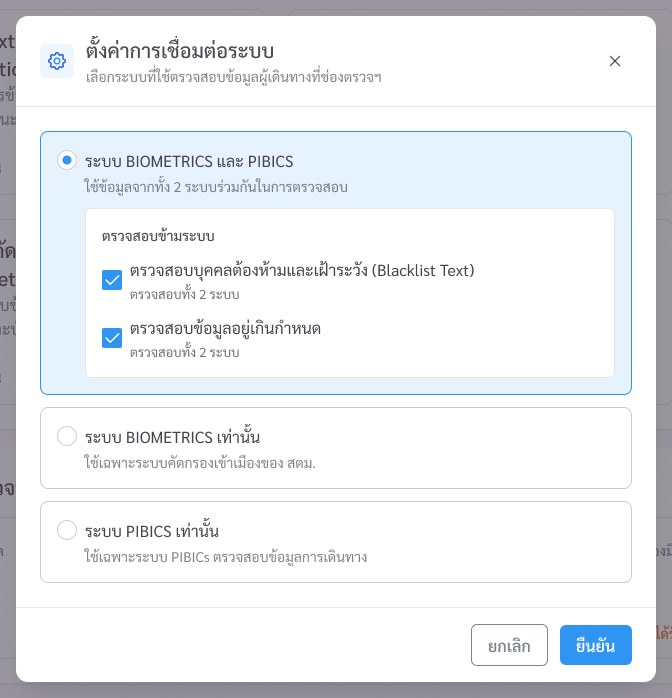
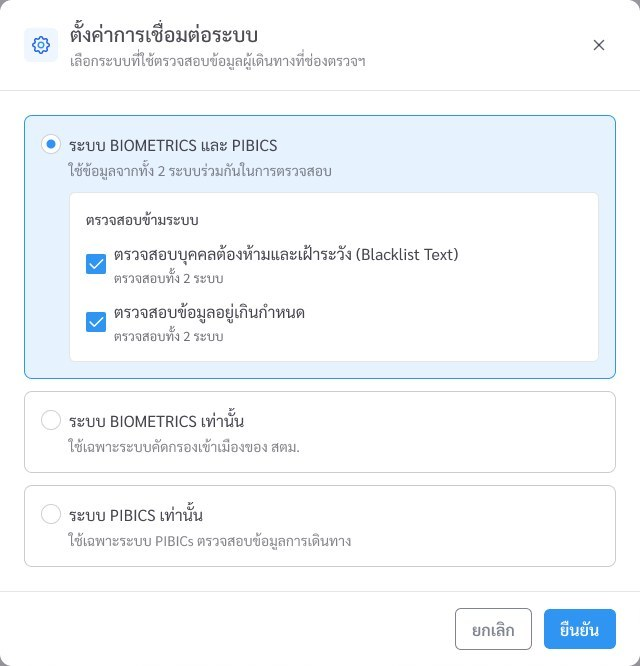
Centralize: retell the case study from the real process
Expert review findings, old sitemap and nine root problems, roles with
user goals and stories, user flows, new sitemap, then revamp screens.
New cover and login from Figma, report before/after now shows the same
report, modals re-cropped.

Claude-Session: https://claude.ai/code/session_01RZ9JP1tTp6cdef2eQ1sVDj

Changed region(s): [[0.0, 0.0, 1.0, 1.0], [0.0625, 0.6006, 0.9375, 0.8408], [0.9062, 0.0601, 0.9375, 0.0901]]

diff --git a/work/centralize.html b/work/centralize.html
@@ -4,7 +4,7 @@
   <meta charset="utf-8">
   <meta name="viewport" content="width=device-width, initial-scale=1">
   <title>Centralize Management — Thanapoom Puchat</title>
-  <meta name="description" content="Case study: redesigning the tool Airports of Thailand staff use to monitor and control the automated passport gates at Suvarnabhumi.">
+  <meta name="description" content="Case study: redesigning the tool Airports of Thailand staff use to monitor and control the automated passport gates.">
   <link rel="preconnect" href="https://fonts.googleapis.com">
   <link rel="preconnect" href="https://fonts.gstatic.com" crossorigin>
   <link href="https://fonts.googleapis.com/css2?family=Inter+Tight:wght@400;500;600;700;800&family=JetBrains+Mono:wght@400;500&display=swap" rel="stylesheet">
@@ -19,63 +19,71 @@
 <section class="hero"><div class="wrap">
   <span class="label hl">Centralize Management</span>
   <h1 class="brand">Centralize<br><span class="gp" tabindex="0"><em class="gp-w">Management<svg class="gp-pl" viewBox="0 0 24 24" aria-hidden="true"><path d="M21 16v-2l-8-5V3.5a1.5 1.5 0 0 0-3 0V9l-8 5v2l8-2.5V19l-2 1.5V22l3.5-1 3.5 1v-1.5L13 19v-5.5z"/></svg></em></span></h1>
-  <p class="tagline">Redesign of the back-office tool Suvarnabhumi Airport staff use to monitor and control automated passport gates.</p>
-  <div class="meta"><div><b>Role</b>Lead UX/UI: review, IA, hi-fi, design system</div><div><b>Client</b>Airports of Thailand (AOT)</div><div><b>Users</b>Immigration and AOT operations staff</div><div><b>Tools</b>Figma, FigJam</div></div>
-  <figure class="shot reveal"><div class="frame" style="--ar:16/9"><img src="../images/centralize/dashboard.png" alt="Redesigned gate monitoring dashboard" loading="lazy"></div></figure>
+  <p class="tagline">Redesign of the back-office tool airport and immigration staff use to monitor and control automated passport gates.</p>
+  <div class="meta"><div><b>Role</b>Lead UX/UI: review, IA, flows, hi-fi, design system</div><div><b>Client</b>Airports of Thailand (AOT)</div><div><b>Users</b>Immigration and AOT operations staff</div><div><b>Tools</b>Figma, FigJam</div></div>
+  <figure class="shot reveal"><div class="frame" style="--ar:16/9"><img src="../images/centralize/cover.jpg" alt="Centralize project cover with Chanwanich and AOT logos" loading="lazy"></div></figure>
 </div></section>
-<section class="slide ie-tldr"><div class="wrap"><div class="ie-tldr-grid reveal"><div><span class="tiny">The problem</span><p>Suvarnabhumi’s automated passport gates are run from one back-office tool. It grew one requirement at a time: menus named after modules, a red outline on almost every gate card, and one-click actions that open a gate or resend a travel record with no review.</p></div><div><span class="tiny">What I did</span><p>Reviewed every module against Nielsen’s heuristics, grouped the findings into nine system-level problems, mapped three role groups to user stories and a new sitemap, then redesigned the core screens on a new design system.</p></div><div><span class="tiny">Where it stands</span><p>Hi-fi for the monitoring flow: dashboard, gate detail, gate actions, reports, certificates and login. The next step is task-based testing with each role group.</p></div></div></div></section><section class="slide side"><div class="wrap">
-  <div><span class="label">01 · Context</span><h2>One screen for eleven gates and the six systems behind them</h2><p class="sub">Every passenger at an automated gate is checked against immigration biometrics, PIBICS, the APPS flight gateway, TDAC and the e-passport chip. If one link fails, the gate fails. Staff watch all of it from this tool, across three zones, arrivals and departures.</p></div>
-  <div><div class="content"><div class="stats reveal" style="--cols:3"><div><b>11</b><span>automated gates across 3 zones</span></div><div><b>6</b><span>external systems each gate depends on</span></div><div><b>3</b><span>role groups with different jobs</span></div></div></div><div class="content"><div class="list two reveal"><div><b>Device faults</b><p>Printer out of paper, passport reader offline, certificate about to expire.</p></div><div><b>Passenger incidents</b><p>Face or fingerprint match fails, someone is stuck between doors, a bag is left behind.</p></div><div><b>Security</b><p>A watch-list match that needs a person at the gate now.</p></div></div></div></div>
-</div></section>
-<section class="slide side"><div class="wrap">
-  <div><span class="label">02 · Existing system</span><h2>Reviewing the live tool, module by module</h2><p class="sub">An expert review of every screen against Nielsen’s 10 heuristics. For each one I logged the issue, the heuristic it broke, what already worked, and a recommendation.</p></div>
-  <div><div class="content"><div class="list two reveal"><div><b>Red borders everywhere<small>Aesthetic · Visibility of status</small></b><p>Real faults looked like normal states, so staff stopped trusting colour. Fix: name, status, the one critical issue, and one action per gate.</p></div><div><b>Open gate and resend record in one click<small>Error prevention</small></b><p>Opening a gate or resending a travel record had no review and no reason. Fix: a confirmation step that shows what will change and logs why.</p></div><div><b>JSON upload help<small>Help and documentation · already good</small></b><p>The upload page explained each step and the common errors. Kept, and reused as the pattern for other uploads.</p></div></div></div><div class="content"><figure class="shot contain reveal"><div class="frame" style="--ar:1400/1587"><img src="../images/centralize/old-control.jpg" alt="Old gate control page" loading="lazy"></div><figcaption>Before · gate control: scope, open/close, timing rules and ten alert toggles on one page, saved with one button.<a href="../images/centralize/old-control.jpg" target="_blank" rel="noopener">Full screen ↗</a></figcaption></figure></div></div>
+<section class="slide ie-tldr"><div class="wrap"><div class="ie-tldr-grid reveal"><div><span class="tiny">The problem</span><p>Airports of Thailand runs its automated passport gates from one back-office tool. Years of additions left it organised by module: ten top-level menus, 24 separate report pages, and a red outline on almost every gate card.</p></div><div><span class="tiny">How I worked</span><p>Expert review of every module, then the old sitemap and nine root problems, then roles, user goals, stories and flows. Only then a new sitemap and the screens.</p></div><div><span class="tiny">Where it stands</span><p>Hi-fi for the dashboard, gate detail, gate actions, reports, certificates, master data and login. Next step: task-based tests with each role group.</p></div></div></div></section><section class="slide"><div class="wrap">
+  <span class="label">01 · Expert review</span>
+  <h2>Start from the live system, not a blank page</h2><p class="sub">I reviewed every module of the existing tool, from login to master data, against Nielsen’s ten heuristics. Each finding was logged with the heuristic it broke or met and a recommendation. The dashboard module, as an example:</p>
+  <div class="content"><div class="stats reveal" style="--cols:4"><div><b>10</b><span>modules reviewed</span></div><div><b>10</b><span>heuristics as the checklist</span></div><div><b>6</b><span>user groups mapped</span></div><div><b>9</b><span>root problems found</span></div></div></div><div class="content"><div class="scroll-x reveal"><table class="metrics cm-tb cm-find"><thead><tr><th>#</th><th>Finding</th><th>Heuristic</th><th>Recommendation</th></tr></thead><tbody><tr><td>01</td><td>Status uses many colours and styles, so staff have to remember what each one means.</td><td><span class="cm-tag bad">Broken</span>6 · Recognition rather than recall</td><td>Colour, icon and label together, with a legend for rare states.</td></tr><tr><td>02</td><td>The connection modal mixes main options and sub-options. It is unclear which checkboxes belong to which radio button.</td><td><span class="cm-tag bad">Broken</span>6 · Recognition rather than recall</td><td>Group it: connection type, then systems, then extra checks, with indentation and helper text.</td></tr><tr><td>03</td><td>Red borders on most gate cards. A critical fault looks the same as a normal state.</td><td><span class="cm-tag bad">Broken</span>8 · Aesthetic and minimalist design</td><td>Red only where a person is needed. Tone down everything else.</td></tr><tr><td>04</td><td>High information density. Staff scan every card to find the one that matters.</td><td><span class="cm-tag bad">Broken</span>8 · Aesthetic and minimalist design</td><td>Per card: gate name, main status, critical issue, one primary action.</td></tr><tr><td>05</td><td>The detail page is split into gate, devices, passenger result, timeline and biometrics.</td><td><span class="cm-tag good">Met</span>6 · Recognition rather than recall</td><td>Keep the sections. Make the headings stronger than the data.</td></tr><tr><td>06</td><td>Dashboard → settings → detail lets staff drill down from the overview.</td><td><span class="cm-tag good">Met</span>7 · Flexibility and efficiency</td><td>Keep the flow. Add a clear way back to the dashboard.</td></tr></tbody></table></div></div><div class="content"><p class="note">Findings that met a heuristic were kept on purpose. Not everything in the old tool was broken.</p></div>
 </div></section>
 <section class="slide"><div class="wrap">
-  <span class="label">03 · Pain points</span>
-  <h2>Dozens of screen issues, nine root causes</h2><p class="sub">Grouped from the review. Most screen-level fixes traced back to one of these, so these became the brief.</p>
-  <div class="content"><div class="cm-th reveal"><div><span class="tiny">Structure</span><h4>The menu mirrors the database</h4><ul><li><b>IA built around modules</b>Related tasks were spread across menus.</li><li><b>System language</b>Menus named after modules and data types, not jobs.</li><li><b>Feature creep</b>Each new requirement added a menu, a modal or a filter.</li></ul></div><div><span class="tiny">Attention</span><h4>Everything looks equally urgent</h4><ul><li><b>No priority</b>KPIs, charts, filters and tables all at the same weight.</li><li><b>Inconsistent UI</b>Badge colours changed meaning between modules.</li><li><b>Read-only vs edit</b>Detail pages looked like forms waiting to be filled in.</li></ul></div><div><span class="tiny">Action</span><h4>Risky steps have no guard rails</h4><ul><li><b>No workflow</b>Scope, on/off, conditions and alerts set on one page.</li><li><b>Filters reset</b>No quick filters or saved views; every visit started over.</li><li><b>Permissions</b>Ticked one by one in long lists, hard to review.</li></ul></div></div></div>
+  <span class="label">02 · Old sitemap</span>
+  <h2>Ten menus named after modules</h2><p class="sub">Next I mapped the existing menu tree and traced each finding back to it. Most screen-level issues came from the same nine causes, so those nine became the brief.</p>
+  <div class="content"><div class="cm-old reveal"><span class="tiny">Existing top-level menu</span><ol><li>Home</li><li>Reports</li><li>Inquiry</li><li>Gate management</li><li>Gate control &amp; alerts</li><li>Certificates</li><li>Users &amp; permissions</li><li>Master data</li><li>Gate software</li><li>Others</li></ol></div></div><div class="content"><div class="scroll-x reveal"><table class="metrics cm-tb cm-pain"><thead><tr><th>Root problem</th><th>What it costs staff</th></tr></thead><tbody><tr><td><b>Menus follow modules, not tasks</b></td><td>Hard to find a function. Long time to learn the system.</td></tr><tr><td><b>No clear workflow</b></td><td>Staff must already know which menu, which button, and where to go next.</td></tr><tr><td><b>Lots of data, no priority</b></td><td>Reading whole tables to find the one thing that matters.</td></tr><tr><td><b>Too many filters and search fields</b></td><td>Searching and checking take longer than the task itself.</td></tr><tr><td><b>Inconsistent UI</b></td><td>The same interaction is relearned in every module.</td></tr><tr><td><b>View and edit look the same</b></td><td>Unsure whether a detail page is read-only or a form.</td></tr><tr><td><b>Permissions ticked one by one</b></td><td>Long lists that are hard to review before saving.</td></tr><tr><td><b>Technical menu names</b></td><td>New staff learn the vocabulary before they can learn the job.</td></tr><tr><td><b>Features keep piling up</b></td><td>Every request added another menu, pattern, modal, filter or master-data list.</td></tr></tbody></table></div></div><div class="content"><div class="ie-ba reveal"><figure class="ie-ba-c"><span class="ie-ba-t t-before">Before</span><div class="frame" style="aspect-ratio:3/2"><img src="../images/centralize/old-report.jpg" alt="Old report page" loading="lazy"></div><figcaption>Reports: 24 separate pages stacked in the sidebar.</figcaption></figure><figure class="ie-ba-c"><span class="ie-ba-t t-before">Before</span><div class="frame" style="aspect-ratio:3/2"><img src="../images/centralize/old-search.jpg" alt="Old traveller search" loading="lazy"></div><figcaption>Inquiry: seventeen filters before a single result.</figcaption></figure></div></div>
 </div></section>
 <section class="slide"><div class="wrap">
-  <span class="label">04 · Roles</span>
-  <h2>Three role groups, one sitemap</h2><p class="sub">I mapped who acts on a gate and who only watches it. Each screen in the new sitemap is tied to a role and a user story, which showed which pages nobody needed and which actions needed a review step.</p>
-  <div class="content"><div class="cards reveal" style="--cols:3"><div class="card"><span class="k">Action</span><h4>Fix the gate</h4><p>Immigration master-data unit. Picks a faulty gate from the dashboard, checks its detail, and brings it back into service.</p></div><div class="card"><span class="k">Action + Monitor</span><h4>Judge, then act</h4><p>Unit heads, operations staff, system admins. Watch the whole airport, open an incident, act, and confirm the result.</p></div><div class="card"><span class="k">Monitor</span><h4>Spot it and pass it on</h4><p>Central immigration. See gate and system status and alerts, and hand problems to the right team in time.</p></div></div></div><div class="content"><figure class="shot contain reveal"><div class="frame" style="--ar:1800/847"><img src="../images/centralize/roles.png" alt="Role goals, objectives and user stories" loading="lazy"></div><figcaption>Goals, objectives and user stories for each role group.<a href="../images/centralize/roles.png" target="_blank" rel="noopener">Full screen ↗</a></figcaption></figure></div><div class="content"><figure class="shot contain reveal"><div class="frame" style="--ar:1800/1186"><img src="../images/centralize/sitemap.png" alt="Role-based sitemap" loading="lazy"></div><figcaption>New sitemap, grouped by job instead of by module.<a href="../images/centralize/sitemap.png" target="_blank" rel="noopener">Full screen ↗</a></figcaption></figure></div>
+  <span class="label">03 · Roles &amp; actions</span>
+  <h2>Who watches, who acts</h2><p class="sub">Not everyone who opens the tool should be able to change a gate. I grouped the six user groups by what they do with it, then wrote each group’s goal and stories before drawing a screen.</p>
+  <div class="content"><div class="cm-per reveal"><div><span class="cm-role mon">Monitor</span><p class="cm-who">Central immigration (AOT + CWN)</p><span class="tiny">User goal</span><p class="cm-goal">See every airport in one place and pass problems to the right team in time.</p><span class="tiny">User stories · “I want to…”</span><ul class="cm-st"><li>See one dashboard across all airports, to know the state of the whole system.</li><li>Receive national alerts, to respond to major incidents straight away.</li><li>Search a person across airports, to check a traveller’s history.</li></ul><span class="tiny">What the design does</span><p class="cm-do">Read-only views, alerts and hand-off. No gate controls.</p></div><div><span class="cm-role both">Monitor + Action</span><p class="cm-who">System admins, supervisors, operation staff, unit heads</p><span class="tiny">User goal</span><p class="cm-goal">Watch their airport or side, open the incident, act, and confirm the result.</p><span class="tiny">User stories · “I want to…”</span><ul class="cm-st"><li>Pick a gate with an incident, to see what happened and deal with it.</li><li>See the passenger’s passport and biometric results, to decide whether to allow or refuse.</li><li>Review past logs, to check the team’s decisions (unit heads).</li></ul><span class="tiny">What the design does</span><p class="cm-do">Controls sit next to the state they change. Risky actions ask for a reason and are logged.</p></div><div><span class="cm-role act">Action</span><p class="cm-who">Immigration master-data unit</p><span class="tiny">User goal</span><p class="cm-goal">Keep nationality, visa and behaviour rules current, so the automated checks follow the latest policy.</p><span class="tiny">User stories · “I want to…”</span><ul class="cm-st"><li>Set visa rules per country, for arrivals.</li><li>Set behaviour rules (visa run, in-out, overstay) per country.</li><li>Log every change with a version.</li></ul><span class="tiny">What the design does</span><p class="cm-do">One master-data template with validation, duplicate-code errors and a guard on deleting data in use.</p></div></div></div>
 </div></section>
-<section class="slide side"><div class="wrap">
-  <div><span class="label">05 · Principles</span><h2>Four rules every screen had to pass</h2><p class="sub">Written from the pain points, then used to review my own screens before handoff.</p></div>
-  <div><div class="content"><div class="list reveal"><div><span class="n">01</span><b>Exceptions first</b><p>The dashboard opens on what is wrong. Healthy gates are one tab away, not in the way.</p></div><div><span class="n">02</span><b>One colour, one meaning</b><p>Red is a fault that needs a person. Orange needs checking. Grey is off. Nowhere else.</p></div><div><span class="n">03</span><b>Look before you act</b><p>Every control sits next to the state it changes, and shows when it last changed.</p></div><div><span class="n">04</span><b>Every override leaves a reason</b><p>Opening a gate or changing a system link asks why, and logs who did it.</p></div></div></div></div>
+<section class="slide"><div class="wrap">
+  <span class="label">04 · User flows</span>
+  <h2>Flows before screens</h2><p class="sub">One flow per group, from login to the moment the job is done. The branch at the end of each flow became the screen that needed the most care.</p>
+  <div class="content"><div class="cm-flows reveal"><div class="cm-fl"><span class="cm-role both">Operation staff</span><ol><li>Log in, pick site</li><li>Gate status for my side</li><li>Open the gate with an incident</li><li>Passport and biometrics</li><li class="cm-end"><span class="ok">Pass: open the door</span><span class="bad">Fail: close, log incident</span></li></ol></div><div class="cm-fl"><span class="cm-role both">Admin / supervisor</span><ol><li>Log in, pick site</li><li>Airport console</li><li>Gate status and alerts</li><li>Open, close or configure</li><li class="cm-end"><span class="">Users and permissions</span><span class="">Special lanes, export</span></li></ol></div><div class="cm-fl"><span class="cm-role mon">Central immigration</span><ol><li>Log in</li><li>All airports overview</li><li>National alerts</li><li>Cross-airport search</li><li class="cm-end"><span class="">Executive summary</span></li></ol></div><div class="cm-fl"><span class="cm-role act">Master data</span><ol><li>Log in</li><li>Nationality list</li><li>Visa rules per country</li><li>Behaviour rules</li><li class="cm-end"><span class="ok">Save with a version</span></li></ol></div><div class="cm-fl"><span class="cm-role pax">Passenger at the gate</span><ol><li>Scan passport</li><li>Face or document check</li><li>e-Visa, allowed country</li><li>Behaviour check</li><li class="cm-end"><span class="ok">Pass</span><span class="bad">Fail: logged for staff</span></li></ol></div></div></div><div class="content"><p class="note">The passenger never uses the tool, but every check in their flow is what staff read on the gate detail page.</p></div>
+</div></section>
+<section class="slide"><div class="wrap">
+  <span class="label">05 · New sitemap</span>
+  <h2>From module menus to jobs</h2><p class="sub">Reports and inquiry became one place to find data. Gates, control, alerts and biometrics became daily operations. Admin settings moved to the end, and search, notifications and help became global.</p>
+  <div class="content"><div class="cm-sm reveal"><div><span class="n">01</span><h4>Home</h4><ul><li><b>System status</b></li><li><b>Gate overview</b></li><li><b>Gates to check</b></li></ul></div><div><span class="n">02</span><h4>Reports &amp; search</h4><ul><li><b>Reports</b><small>KPIs, statistics, charts, tables</small></li><li><b>Data inquiry</b><small>By reference, time, type, status, gate</small></li></ul></div><div><span class="n">03</span><h4>Operations</h4><ul><li><b>Gates</b><small>All gates, gate detail</small></li><li><b>Gate control</b><small>Open/close, conditions</small></li><li><b>Alerts</b><small>Rules, on/off</small></li><li><b>Biometrics</b><small>Send status, resend</small></li></ul></div><div><span class="n">04</span><h4>Certificates</h4><ul><li><b>Overview</b></li><li><b>CSCA</b></li><li><b>CVCA / DVCA</b></li><li><b>Revocation</b></li></ul></div><div><span class="n">05</span><h4>Gate software</h4><ul><li><b>Software status</b></li><li><b>Install / update</b></li><li><b>Packages</b></li></ul></div><div><span class="n">06</span><h4>Users &amp; permissions</h4><ul><li><b>Users</b></li><li><b>Permissions</b><small>Permission matrix</small></li><li><b>Approvals</b><small>Approve or reject</small></li></ul></div><div><span class="n">07</span><h4>System settings</h4><ul><li><b>Master data</b></li><li><b>Configuration</b><small>Mapping, parameters</small></li><li><b>Shared system data</b></li></ul></div><div><span class="n">08</span><h4>Global</h4><ul><li><b>Search, notifications</b></li><li><b>Help, TH / EN</b></li><li><b>Profile, log out</b></li></ul></div></div></div>
 </div></section>
 <section class="slide"><div class="wrap">
   <span class="label">06 · Dashboard</span>
-  <h2>From a wall of red to a list of what needs you</h2><p class="sub">The overview now answers three questions in order: are the connected systems up, how many gates need attention, and which ones.</p>
-  <div class="content"><div class="ie-ba reveal"><figure class="ie-ba-c"><span class="ie-ba-t t-before">Before</span><div class="frame" style="aspect-ratio:1466/1175"><img src="../images/centralize/old-gates.jpg" alt="Old gate overview" loading="lazy"></div><figcaption>Before · every card outlined in red, status as text, no counts or filters.</figcaption></figure><figure class="ie-ba-c"><span class="ie-ba-t t-after">After</span><div class="frame" style="aspect-ratio:1466/1175"><img src="../images/centralize/new-gates.jpg" alt="New gate overview" loading="lazy"></div><figcaption>After · status counts, a “needs attention” tab with filters, and one issue per card.</figcaption></figure></div></div><div class="content"><div class="list two reveal"><div><b>Status counts on top</b><p>Total, open, device fault, needs checking, offline. Each count is a filter.</p></div><div><b>Tabs with numbers</b><p>All 11 · Normal 4 · Abnormal 5 · Closed 2. Staff start on Abnormal.</p></div><div><b>One issue per card</b><p>Gate, zone, door state, the issue and its time. Colour sits on a thin bottom bar, not the whole border.</p></div><div><b>Device strip</b><p>Seven device icons per gate, each with its own status dot, so a fault is visible without opening the gate.</p></div></div></div><div class="content"><figure class="shot reveal"><div class="frame" style="--ar:1248/520"><img src="../images/centralize/new-systems.jpg" alt="Connected systems panel" loading="lazy"></div><figcaption>Above the gates: the six connected systems, with “6/6 ready” at a glance and a settings entry for admins.<a href="../images/centralize/new-systems.jpg" target="_blank" rel="noopener">Full screen ↗</a></figcaption></figure></div>
+  <h2>From a wall of red to a list of what needs you</h2><p class="sub">Findings 03 and 04 in practice. The overview now answers three questions in order: are the connected systems up, how many gates need attention, and which ones.</p>
+  <div class="content"><div class="ie-ba reveal"><figure class="ie-ba-c"><span class="ie-ba-t t-before">Before</span><div class="frame" style="aspect-ratio:1466/1175"><img src="../images/centralize/old-gates.jpg" alt="Old gate overview" loading="lazy"></div><figcaption>Before · every card outlined in red, status as text, no counts or filters.</figcaption></figure><figure class="ie-ba-c"><span class="ie-ba-t t-after">After</span><div class="frame" style="aspect-ratio:1466/1175"><img src="../images/centralize/new-gates.jpg" alt="New gate overview" loading="lazy"></div><figcaption>After · status counts, a “needs attention” tab, one issue per card.</figcaption></figure></div></div><div class="content"><figure class="shot reveal"><div class="frame" style="--ar:1248/520"><img src="../images/centralize/new-systems.jpg" alt="Connected systems panel" loading="lazy"></div><figcaption>Above the gates: the six connected systems, “6/6 ready” at a glance.<a href="../images/centralize/new-systems.jpg" target="_blank" rel="noopener">Full screen ↗</a></figcaption></figure></div>
 </div></section>
 <section class="slide"><div class="wrap">
   <span class="label">07 · Gate detail</span>
-  <h2>One verdict before twenty fields</h2><p class="sub">Staff open a gate to answer one question: why did this passenger fail, and what do I do? The old page made them read every row to find out.</p>
-  <div class="content"><div class="ie-ba stack reveal"><figure class="ie-ba-c"><span class="ie-ba-t t-before">Before</span><div class="frame"><img src="../images/centralize/old-lane.jpg" alt="Old gate detail" loading="lazy"></div><figcaption>Before · every check shown at the same weight, open/close as two button pairs per control.</figcaption></figure><figure class="ie-ba-c"><span class="ie-ba-t t-after">After</span><div class="frame"><img src="../images/centralize/new-lane.jpg" alt="New gate detail" loading="lazy"></div><figcaption>After · an overall result first (“Failed 2 of 4”), with the four checks as chips. <a href="../images/centralize/lane.jpg" target="_blank" rel="noopener">Full screen ↗</a></figcaption></figure></div></div><div class="content"><div class="list two reveal"><div><b>Verdict banner</b><p>Overall result, how many checks failed, and what to do next, above everything else.</p></div><div><b>Scores with thresholds</b><p>Face and fingerprint scores on a meter with the pass line marked, instead of a bare number.</p></div><div><b>Switches with history</b><p>Service and door switches show when they last changed, so staff can see if someone already acted.</p></div><div><b>Previous / next gate</b><p>Move through the faulty gates without going back to the dashboard.</p></div></div></div>
+  <h2>One verdict before twenty fields</h2><p class="sub">Staff open a gate to answer one question: why did this passenger fail, and what do I do now? The result of the passenger flow now comes first.</p>
+  <div class="content"><div class="ie-ba stack reveal"><figure class="ie-ba-c"><span class="ie-ba-t t-before">Before</span><div class="frame"><img src="../images/centralize/old-lane.jpg" alt="Old gate detail" loading="lazy"></div><figcaption>Before · every check at the same weight, open/close as button pairs.</figcaption></figure><figure class="ie-ba-c"><span class="ie-ba-t t-after">After</span><div class="frame"><img src="../images/centralize/new-lane.jpg" alt="New gate detail" loading="lazy"></div><figcaption>After · an overall result first (“Failed 2 of 4”), the checks as chips, and switches that show when they last changed. <a href="../images/centralize/lane.jpg" target="_blank" rel="noopener">Full screen ↗</a></figcaption></figure></div></div>
 </div></section>
 <section class="slide"><div class="wrap">
   <span class="label">08 · Guard rails</span>
-  <h2>Risky actions ask what will change, and why</h2><p class="sub">Opening a gate lets a passenger through without a full check. Changing which systems are used changes every check at the airport. Both now stop for a moment.</p>
-  <div class="content"><div class="duo"><figure class="shot contain reveal"><div class="frame" style="--ar:672/698"><img src="../images/centralize/modal-open.jpg" alt="Open gate confirmation" loading="lazy"></div><figcaption>Open gate: which gate and door, a note that the action is logged with your name, and a required reason.</figcaption></figure><figure class="shot contain reveal"><div class="frame" style="--ar:672/698"><img src="../images/centralize/modal-conn.jpg" alt="Connection settings" loading="lazy"></div><figcaption>System connection: three clear options instead of loose checkboxes, with the sub-checks shown inside the chosen one.</figcaption></figure></div></div>
+  <h2>Risky actions ask what will change, and why</h2><p class="sub">Opening a gate lets a passenger through without a full check. Changing the connected systems changes every check at the airport. Both now stop for a moment. The second also fixes finding 02.</p>
+  <div class="content"><div class="duo"><figure class="shot contain reveal"><div class="frame" style="--ar:734/867"><img src="../images/centralize/modal-open.jpg" alt="Open gate confirmation" loading="lazy"></div><figcaption>Open gate: which gate and door, a note that it is logged with your name, and a required reason.</figcaption></figure><figure class="shot contain reveal"><div class="frame" style="--ar:734/867"><img src="../images/centralize/modal-conn.jpg" alt="Connection settings" loading="lazy"></div><figcaption>Connections: three clear options, with the sub-checks inside the chosen one.</figcaption></figure></div></div>
 </div></section>
 <section class="slide"><div class="wrap">
-  <span class="label">09 · Reports & certificates</span>
-  <h2>Find the report, read the status</h2><p class="sub">Two modules that had grown by addition: 24 report links stacked in the sidebar, and certificate files listed by file name.</p>
-  <div class="content"><div class="ie-ba reveal"><figure class="ie-ba-c"><span class="ie-ba-t t-before">Before</span><div class="frame" style="aspect-ratio:4/5"><img src="../images/centralize/old-report.jpg" alt="Old report page" loading="lazy"></div><figcaption>Before · 24 report links in the sidebar, each a separate page.</figcaption></figure><figure class="ie-ba-c"><span class="ie-ba-t t-after">After</span><div class="frame" style="aspect-ratio:4/5"><img src="../images/centralize/new-report.jpg" alt="New report hub" loading="lazy"></div><figcaption>After · 23 reports in five groups, with search, pinned and recently used.</figcaption></figure></div></div><div class="content"><div class="ie-ba reveal"><figure class="ie-ba-c"><span class="ie-ba-t t-before">Before</span><div class="frame" style="aspect-ratio:1515/1122"><img src="../images/centralize/old-cert.jpg" alt="Old certificate list" loading="lazy"></div><figcaption>Before · CSCA certificates as .ldif file names and versions.</figcaption></figure><figure class="ie-ba-c"><span class="ie-ba-t t-after">After</span><div class="frame" style="aspect-ratio:1515/1122"><img src="../images/centralize/new-cert.jpg" alt="New certificate list" loading="lazy"></div><figcaption>After · by country, with valid-from, expiry and a status badge.</figcaption></figure></div></div>
+  <span class="label">09 · Reports &amp; data</span>
+  <h2>Templates instead of one-off pages</h2><p class="sub">The 24 report pages and the master-data lists were rebuilt on a few shared templates. The same report, before and after:</p>
+  <div class="content"><div class="ie-ba reveal"><figure class="ie-ba-c"><span class="ie-ba-t t-before">Before</span><div class="frame" style="aspect-ratio:924/1155"><img src="../images/centralize/old-report.jpg" alt="Old departure gate usage report" loading="lazy"></div><figcaption>Before · departure gate usage: zone cards full of zeros, filters hidden behind a button.</figcaption></figure><figure class="ie-ba-c"><span class="ie-ba-t t-after">After</span><div class="frame" style="aspect-ratio:924/1155"><img src="../images/centralize/report-a.jpg" alt="New departure gate usage report" loading="lazy"></div><figcaption>After · the same report on Template A: filters open, KPIs first, then by zone and by gate. <a href="../images/centralize/report-a-full.jpg" target="_blank" rel="noopener">Full screen ↗</a></figcaption></figure></div></div><div class="content"><div class="duo"><figure class="shot contain reveal"><div class="frame" style="--ar:4/5"><img src="../images/centralize/new-report.jpg" alt="Report hub" loading="lazy"></div><figcaption>Report hub: grouped, with search, pinned and recent, instead of 24 sidebar links.<a href="../images/centralize/new-report.jpg" target="_blank" rel="noopener">Full screen ↗</a></figcaption></figure><figure class="shot contain reveal"><div class="frame" style="--ar:4/5"><img src="../images/centralize/master-data.jpg" alt="Nationality master data" loading="lazy"></div><figcaption>Master data on Template E: one search card, status tags, and a warning that a change affects passenger checks.<a href="../images/centralize/master-data.jpg" target="_blank" rel="noopener">Full screen ↗</a></figcaption></figure></div></div>
 </div></section>
 <section class="slide"><div class="wrap">
-  <span class="label">10 · Login</span>
-  <h2>Every state, not just the happy path</h2><p class="sub">Shared accounts get locked and suspended in real use. Each state has its own message and next step.</p>
-  <div class="content"><figure class="shot contain reveal"><div class="frame" style="--ar:1586/860"><img src="../images/centralize/login.png" alt="Login and its states" loading="lazy"></div><figcaption>Login, then failed, locked, suspended, pending approval, forgot and reset password.<a href="../images/centralize/login.png" target="_blank" rel="noopener">Full screen ↗</a></figcaption></figure></div>
+  <span class="label">10 · Certificates</span>
+  <h2>Read the status, not the file name</h2><p class="sub">Gates reject passports when a country certificate expires, so expiry is the first thing staff need to see.</p>
+  <div class="content"><div class="ie-ba reveal"><figure class="ie-ba-c"><span class="ie-ba-t t-before">Before</span><div class="frame" style="aspect-ratio:1515/1122"><img src="../images/centralize/old-cert.jpg" alt="Old certificate list" loading="lazy"></div><figcaption>Before · CSCA certificates as .ldif file names and versions.</figcaption></figure><figure class="ie-ba-c"><span class="ie-ba-t t-after">After</span><div class="frame" style="aspect-ratio:1515/1122"><img src="../images/centralize/new-cert.jpg" alt="New certificate list" loading="lazy"></div><figcaption>After · by country, with valid-from, expiry and a status badge.</figcaption></figure></div></div>
+</div></section>
+<section class="slide"><div class="wrap">
+  <span class="label">11 · Login</span>
+  <h2>Every state, not just the happy path</h2><p class="sub">Shared accounts get locked and suspended in real use. Each case has its own message and next step: 15 screens across login, forgot password and reset password.</p>
+  <div class="content"><div class="duo"><figure class="shot reveal"><div class="frame" style="--ar:1586/860"><img src="../images/centralize/login-new.jpg" alt="New login screen" loading="lazy"></div><figcaption>Login: the airport, the system name, and two fields.<a href="../images/centralize/login-new.jpg" target="_blank" rel="noopener">Full screen ↗</a></figcaption></figure><figure class="shot reveal"><div class="frame" style="--ar:1586/860"><img src="../images/centralize/login-locked.jpg" alt="Login with a locked account" loading="lazy"></div><figcaption>Locked account: why it happened and what to do, with the form disabled.<a href="../images/centralize/login-locked.jpg" target="_blank" rel="noopener">Full screen ↗</a></figcaption></figure></div></div>
 </div></section>
 <section class="slide side"><div class="wrap">
-  <div><span class="label">11 · Design system</span><h2>Foundations for long shifts</h2><p class="sub">Built so one status colour means the same thing on every page.</p></div>
-  <div><div class="content"><div class="list two reveal"><div><b>Type</b><p>Sarabun for Thai and English UI. IBM Plex Mono for IDs, IPs, counts and timestamps.</p></div><div><b>Colour</b><p>Success, warning, error and info scales, each tied to one meaning in the principles above.</p></div><div><b>Grid</b><p>4 / 8 / 12 columns, from 320px to 1440px and up.</p></div><div><b>Components</b><p>Gate card, device row, score meter, timeline, upload, stepper, table, chart, modal.</p></div></div></div><div class="content"><figure class="shot reveal"><div class="frame" style="--ar:4/3"><img src="../images/centralize/design-system.png" alt="Design system colour foundations" loading="lazy"></div><figcaption>Colour foundations.<a href="../images/centralize/design-system.png" target="_blank" rel="noopener">Full screen ↗</a></figcaption></figure></div></div>
+  <div><span class="label">12 · Design system</span><h2>One status colour, one meaning</h2><p class="sub">Built so the fixes above stay fixed in every module.</p></div>
+  <div><div class="content"><div class="list two reveal"><div><b>Type</b><p>Sarabun for Thai and English UI. IBM Plex Mono for IDs, IPs, counts and timestamps.</p></div><div><b>Colour</b><p>Success, warning, error and info scales, each tied to one status meaning.</p></div><div><b>Components</b><p>Gate card, device row, score meter, timeline, upload, stepper, table, chart, modal.</p></div></div></div><div class="content"><figure class="shot reveal"><div class="frame" style="--ar:4/3"><img src="../images/centralize/design-system.png" alt="Design system colour foundations" loading="lazy"></div><figcaption>Colour foundations.<a href="../images/centralize/design-system.png" target="_blank" rel="noopener">Full screen ↗</a></figcaption></figure></div></div>
 </div></section>
 <section class="slide side"><div class="wrap">
-  <div><span class="label">12 · Next</span><h2>What I would test first</h2><p class="sub">Task-based tests with each role group, on the flows where a slow or wrong click costs the most.</p></div>
+  <div><span class="label">13 · Next</span><h2>What I would test first</h2><p class="sub">Task-based tests with each role group, on the flows where a slow or wrong click costs the most.</p></div>
   <div><div class="content"><div class="list two reveal"><div><b>Alert to cause</b><p>Time from a red count on the dashboard to the reason inside the gate detail.</p></div><div><b>Open a gate</b><p>Whether staff pick the right gate and door, and how often they cancel at the confirmation.</p></div><div><b>Find a report</b><p>Time to open a named report with search versus browsing the groups.</p></div></div></div></div>
 </div></section>
 <nav class="wrap pn" aria-label="More projects"><a class="pn-p" href="ieat.html"><span class="tiny">Previous project</span><span class="t">IEAT Web Portal</span><span class="ar" aria-hidden="true">←</span></a><a class="pn-n" href="vibirs.html"><span class="tiny">Next project</span><span class="t">Vibirs</span><span class="ar" aria-hidden="true">→</span></a></nav>

diff --git a/assets/site.css b/assets/site.css
@@ -921,3 +921,74 @@ html.cur-view .fcard, html.cur-view .fcard *, html.cur-view .item, html.cur-view
 }
 @media (prefers-reduced-motion: reduce) { .gp.hv .gp-w::after, .gp.on .gp-w::after { animation: none; transform: scaleX(1); } .gp.hv .gp-pl, .gp.on .gp-pl { animation: none; opacity: 1; left: 112%; bottom: .45em; transform: translate(-50%, 0) rotate(58deg); } }
 .hero h1.brand:has(.gp) { padding-bottom: .34em; }
+
+/* Centralize v2: review table, pains, personas, flows, sitemap */
+.cm-tb { min-width: 720px; }
+.cm-tb td { vertical-align: top; line-height: 1.5; color: var(--muted); }
+.cm-tb td b { color: var(--fg); font-weight: 600; }
+.cm-find td:first-child { font-family: var(--mono); font-size: 12px; color: var(--accent); width: 44px; }
+.cm-find td:nth-child(2) { color: var(--fg); width: 36%; }
+.cm-find td:nth-child(3) { width: 22%; font-size: 13px; }
+.cm-pain { min-width: 560px; }
+.cm-pain td:first-child { width: 38%; }
+.cm-tag { display: inline-block; font-size: 10.5px; font-weight: 700; letter-spacing: .08em; text-transform: uppercase; padding: 2px 8px; border-radius: 99px; margin: 0 0 6px; }
+.cm-tag.bad { background: #fde7e7; color: #b3261e; }
+.cm-tag.good { background: #e3f4ea; color: #1b7a43; }
+.cm-find td:nth-child(3) .cm-tag { display: table; }
+.cm-old { background: var(--panel); border: 1px solid var(--line); border-radius: var(--r); padding: 18px 20px; }
+.cm-old .tiny { display: block; color: var(--muted); margin-bottom: 10px; }
+.cm-old ol { list-style: none; margin: 0; padding: 0; display: flex; flex-wrap: wrap; gap: 8px; counter-reset: om; }
+.cm-old li { counter-increment: om; font-size: 13.5px; border: 1px solid var(--line); border-radius: 8px; padding: 6px 10px; background: var(--bg); }
+.cm-old li::before { content: counter(om, decimal-leading-zero); font-family: var(--mono); font-size: 11px; color: var(--muted); margin-right: 7px; }
+.cm-role { display: inline-block; font-size: 11px; font-weight: 700; letter-spacing: .1em; text-transform: uppercase; padding: 4px 10px; border-radius: 99px; background: #e4ecf8; color: var(--accent); }
+.cm-role.mon { background: #e3effd; color: #0d5bb5; }
+.cm-role.both { background: #efe7fb; color: #6a3fb5; }
+.cm-role.act { background: #fff0de; color: #a35a00; }
+.cm-role.pax { background: #e9edf2; color: #4a5566; }
+.cm-per { display: grid; grid-template-columns: repeat(3, minmax(0, 1fr)); gap: 14px; }
+.cm-per > div { background: var(--panel); border: 1px solid var(--line); border-radius: var(--r); padding: 22px; display: flex; flex-direction: column; }
+.cm-per .cm-who { font-size: 18px; font-weight: 700; line-height: 1.3; margin: 12px 0 16px; letter-spacing: -.01em; }
+.cm-per .tiny { display: block; color: var(--muted); margin: 14px 0 6px; padding-top: 14px; border-top: 1px solid var(--line); }
+.cm-per .cm-goal, .cm-per .cm-do { margin: 0; font-size: 14.5px; line-height: 1.5; }
+.cm-per .cm-do { color: var(--accent); font-weight: 600; }
+.cm-st { margin: 0; padding: 0 0 0 18px; font-size: 14px; line-height: 1.5; color: var(--muted); }
+.cm-st li { margin: 0 0 6px; }
+.cm-flows { display: grid; gap: 10px; }
+.cm-fl { display: grid; grid-template-columns: 190px minmax(0, 1fr); align-items: center; gap: 16px; background: var(--panel); border: 1px solid var(--line); border-radius: var(--r); padding: 16px 18px; }
+.cm-fl .cm-role { justify-self: start; }
+.cm-fl ol { list-style: none; margin: 0; padding: 0; display: grid; grid-template-columns: repeat(5, minmax(0, 1fr)); gap: 22px; }
+.cm-fl li { position: relative; font-size: 13.5px; line-height: 1.35; background: var(--bg); border: 1px solid var(--line); border-radius: 8px; padding: 9px 11px; display: flex; align-items: center; }
+.cm-fl li:not(:last-child)::after { content: ""; position: absolute; right: -17px; top: 50%; width: 12px; height: 1.5px; background: var(--muted); opacity: .6; }
+.cm-fl li:not(:last-child)::before { content: ""; position: absolute; right: -18px; top: calc(50% - 3.5px); border: 4px solid transparent; border-left: 5px solid var(--muted); opacity: .6; transform: translateX(4px); }
+.cm-fl li.cm-end { flex-direction: column; align-items: stretch; gap: 6px; padding: 0; background: none; border: 0; }
+.cm-end span { font-size: 13px; font-weight: 600; border-radius: 8px; padding: 7px 10px; border: 1px solid var(--line); background: var(--panel); line-height: 1.3; }
+.cm-end span.ok { background: #e3f4ea; border-color: #bfe3cd; color: #1b6b3c; }
+.cm-end span.bad { background: #fde7e7; border-color: #f3c3c0; color: #a1251d; }
+.cm-sm { display: grid; grid-template-columns: repeat(4, minmax(0, 1fr)); gap: 14px; }
+.cm-sm > div { background: var(--panel); border: 1px solid var(--line); border-radius: var(--r); padding: 18px 18px 14px; }
+.cm-sm .n { font-family: var(--mono); font-size: 11px; color: var(--accent); }
+.cm-sm h4 { margin: 4px 0 10px; font-size: 16px; letter-spacing: -.01em; }
+.cm-sm ul { list-style: none; margin: 0; padding: 0; }
+.cm-sm li { padding: 8px 0; border-top: 1px solid var(--line); font-size: 13.5px; line-height: 1.35; }
+.cm-sm li b { font-weight: 600; display: block; }
+.cm-sm li small { display: block; color: var(--muted); font-size: 12px; margin-top: 2px; }
+@media (max-width: 960px) { .cm-per { grid-template-columns: minmax(0, 1fr); } .cm-sm { grid-template-columns: repeat(2, minmax(0, 1fr)); } }
+@media (max-width: 860px) {
+  .cm-fl { grid-template-columns: minmax(0, 1fr); gap: 12px; }
+  .cm-fl ol { grid-template-columns: minmax(0, 1fr); gap: 16px; }
+  .cm-fl li:not(:last-child)::after { right: auto; left: 18px; top: auto; bottom: -13px; width: 1.5px; height: 10px; }
+  .cm-fl li:not(:last-child)::before { display: none; }
+  .cm-fl li.cm-end { flex-direction: row; flex-wrap: wrap; }
+}
+@media (max-width: 360px) { .cm-sm { grid-template-columns: minmax(0, 1fr); } }
+.cm-per .cm-role { align-self: flex-start; }
+@media (max-width: 640px) {
+  .cm-tb { min-width: 0; }
+  .cm-tb thead { display: none; }
+  .cm-tb, .cm-tb tbody, .cm-tb tr, .cm-tb td { display: block; width: auto !important; }
+  .cm-tb tr { padding: 14px 16px; border-bottom: 1px solid var(--line); }
+  .cm-tb tr:last-child { border-bottom: 0; }
+  .cm-tb td { padding: 0; border: 0; }
+  .cm-tb td + td { margin-top: 6px; }
+  .cm-find td:nth-child(4) { color: var(--accent); }
+}
